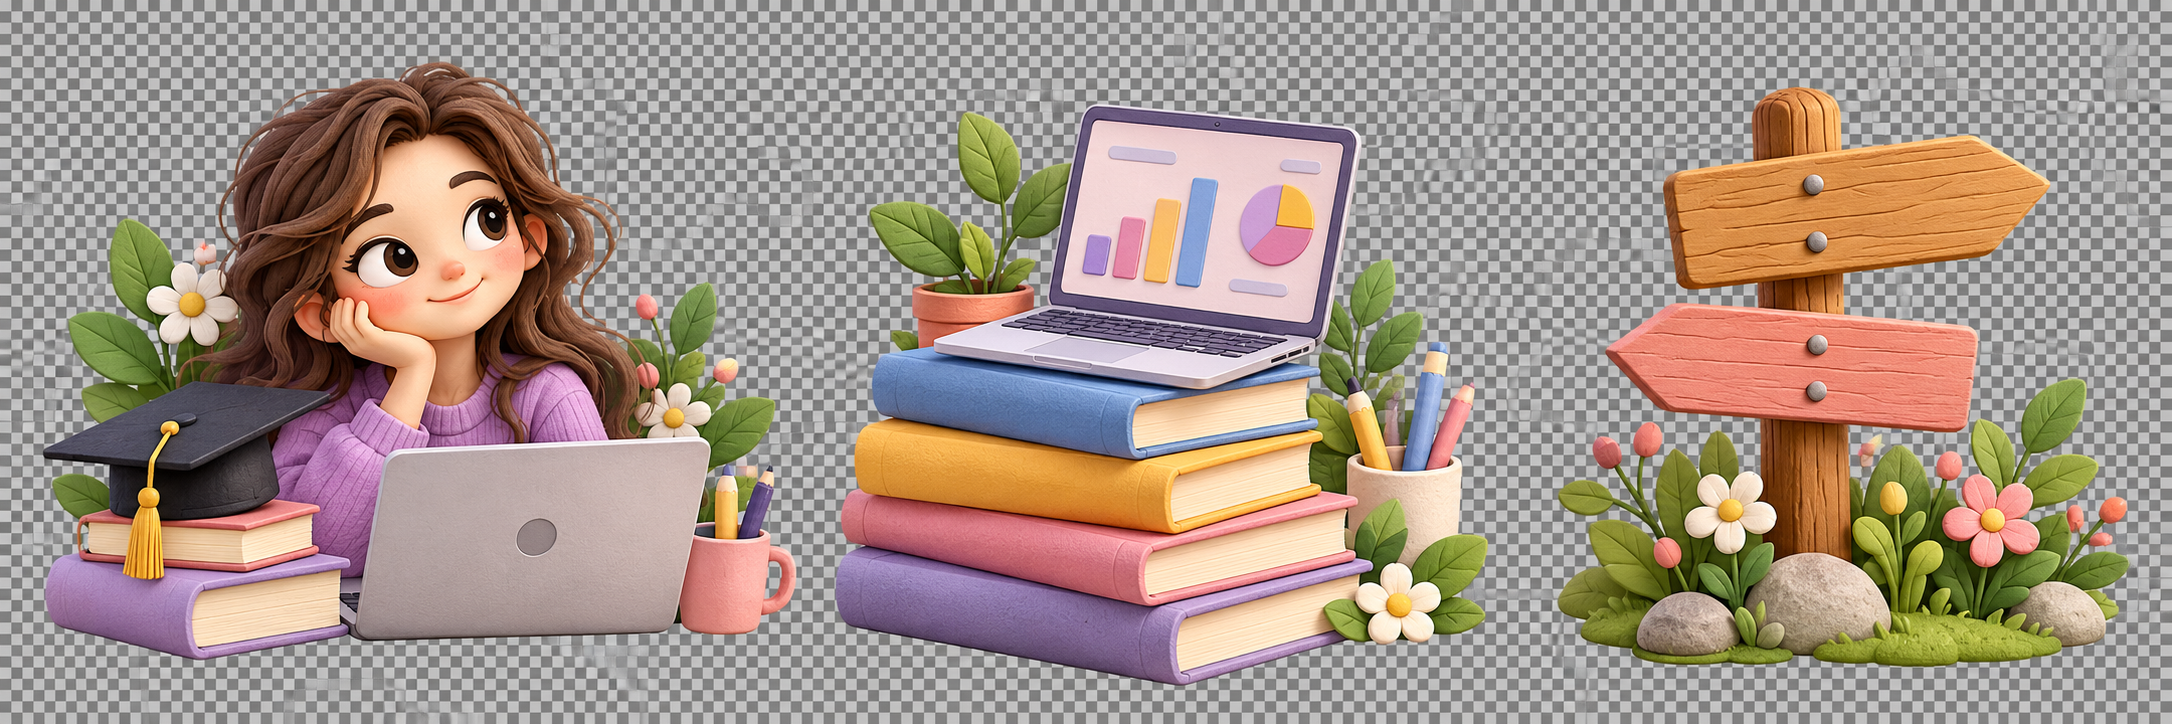
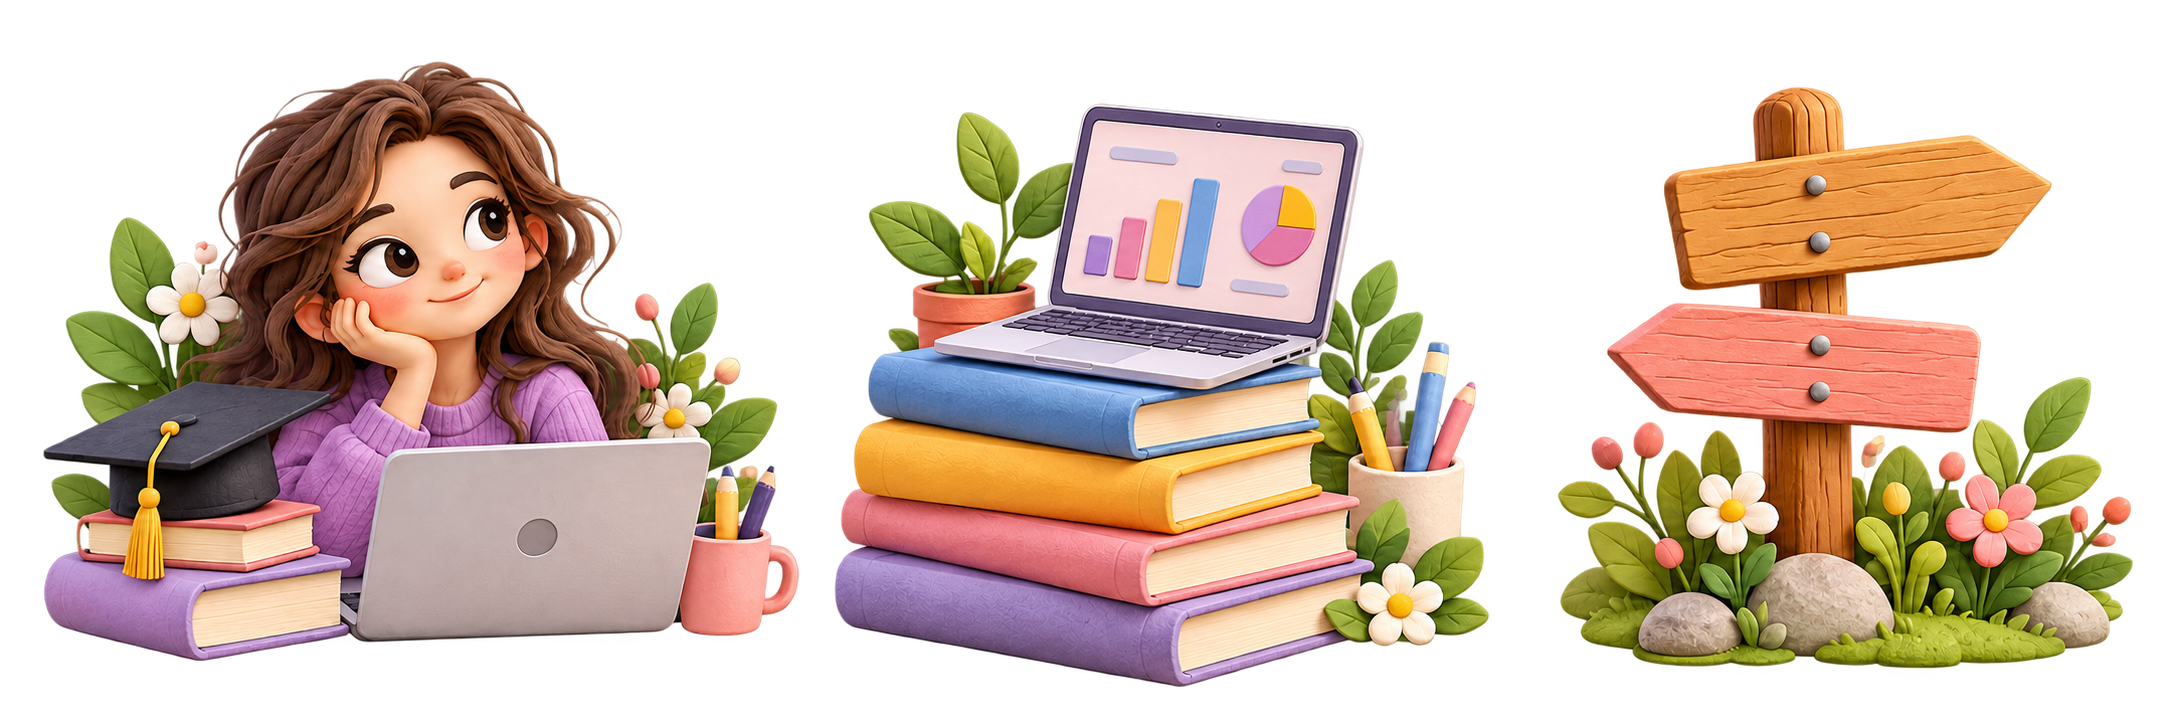
fix 3 block and time

diff --git a/src/App.css b/src/App.css
@@ -16,7 +16,7 @@
 .language-switch { position: absolute; z-index: 1; right: 34px; top: 65px; display: flex; align-items: center; gap: 10px; font-size: 12px; }
 .language-switch b { height: 14px; width: 1px; background: currentColor; opacity: .5; }
 .hero-copy { position: absolute; z-index: 1; left: 10.2%; top: 16%; }
-.handwriting { margin: 0 0 -8px -8px; font: italic 58px/1 'Noto Serif SC', Georgia, serif; transform: rotate(-9deg); }
+.handwriting { margin: 0 0 20px -8px; font: italic 58px/1 'Noto Serif SC', Georgia, serif; transform: rotate(-9deg); }
 .hero-copy h1 { margin: 0; font: 500 clamp(50px, 6vw, 82px)/.98 Georgia, 'Times New Roman', serif; letter-spacing: -.045em; }
 .hero-copy h1 em { font-style: normal; padding-left: 55px; }
 .hero-chinese { margin: 34px 0 10px 28px; font: 500 23px/1.5 'Noto Serif SC', serif; letter-spacing: .18em; color: #fff; text-shadow: 0 1px 8px rgba(32,40,72,.5); }
@@ -29,13 +29,11 @@
 .story-card:hover, .story-card.is-active { transform: translateY(-4px); box-shadow: 0 18px 42px rgba(64,65,120,.15); }
 .story-number { display: block; color: #8384ae; font: 18px Georgia, serif; }
 .story-title { display: block; margin-top: 4px; font: 32px Georgia, serif; color: #11142b; }
-.story-art { position: absolute; width: 47%; height: 60%; right: 6%; top: 7%; background-image: var(--story-art); background-repeat: no-repeat; background-size: 300% 100%; }
-.art-student { background-position: left center; }
-.art-books { background-position: center center; }
-.art-signpost { background-position: right center; }
-.story-arrow { display: grid; place-items: center; position: absolute; left: 25px; top: 104px; width: 30px; height: 30px; border-radius: 50%; color: white; background: #a1a1c5; font-size: 17px; }
+.story-art { position: absolute; width: 47%; height: 60%; right: 6%; top: 7%; background-repeat: no-repeat; background-position: center; background-size: contain; }
+.story-arrow { display: grid; place-items: center; position: absolute; right: 18px; bottom: 13px; width: 30px; height: 30px; border-radius: 50%; color: white; background: #a1a1c5; font-size: 17px; }
+.story-arrow { text-decoration: none; }
 .story-chinese { display: block; position: absolute; bottom: 43px; left: 25px; font: 600 16px 'Noto Serif SC', serif; }
-.story-detail { display: block; position: absolute; bottom: 20px; left: 25px; right: 15px; color: #73758f; font-size: 12px; white-space: nowrap; overflow: hidden; text-overflow: ellipsis; }
+.story-detail { display: block; position: absolute; bottom: 20px; left: 25px; right: 58px; color: #73758f; font-size: 12px; white-space: nowrap; overflow: hidden; text-overflow: ellipsis; }
 .story-hint, .story-dots { display: none; }
 .projects-section { padding: 31px 36px 28px; background: #f7f6ff; }
 .section-heading { display: flex; justify-content: space-between; align-items: center; margin-bottom: 19px; }
@@ -65,8 +63,35 @@
 .project-tags span { padding: 4px 7px; border-radius: 7px; background: #f0f0f8; color: #676986; font-size: 9px; white-space: nowrap; }
 .project-open { display: grid; place-items: center; flex: 0 0 27px; width: 27px; height: 27px; border: 1px solid #b8bad4; border-radius: 50%; font-size: 14px; }
 .footer { display: flex; justify-content: space-between; padding: 18px 36px 5px; color: #85859e; font-size: 11px; }
+.story-page { width: min(100% - 48px, 1000px); min-height: 100vh; margin: 0 auto; color: #191a36; }
+.story-page-header { height: 76px; display: flex; align-items: center; justify-content: space-between; border-bottom: 1px solid #e7e6f2; }
+.story-page-brand { font-size: 13px; font-weight: 700; letter-spacing: .14em; }
+.story-page-brand span { color: #8385c2; }
+.story-page-back { color: #656681; font-size: 13px; }
+.story-page-hero { display: flex; align-items: center; justify-content: space-between; min-height: 320px; padding: 40px 7%; border-radius: 0 0 22px 22px; background: linear-gradient(135deg, #f4f1ff, #fbf8ff 65%, #f2f4ff); }
+.story-page-number { color: #8586b2; font: 14px Georgia, serif; letter-spacing: .1em; }
+.story-page-hero h1 { margin: 12px 0; font: 500 clamp(34px, 5vw, 56px)/1.2 'Noto Serif SC', Georgia, serif; }
+.story-page-summary { max-width: 490px; color: #666780; font: 16px/1.9 'Noto Serif SC', serif; }
+.story-page-hero img { width: 34%; max-height: 250px; object-fit: contain; }
+.story-page-sections { display: grid; gap: 14px; padding: 34px 7%; }
+.story-page-section { display: grid; grid-template-columns: 48px 1fr; gap: 18px; padding: 24px 26px; border: 1px solid #e8e7f1; border-radius: 14px; background: #fff; }
+.story-page-section > span { color: #8586b2; font: 16px Georgia, serif; }
+.story-page-section h2 { margin: 0 0 9px; font: 600 20px 'Noto Serif SC', serif; }
+.story-page-section p { margin: 0; color: #666780; font: 14px/1.9 'Noto Serif SC', serif; white-space: pre-line; }
+.story-page-footer { display: flex; justify-content: space-between; padding: 18px 7%; color: #85859e; font-size: 11px; }
 
 @media (max-width: 760px) {
+  .story-page { width: min(100% - 32px, 560px); }
+  .story-page-header { height: 60px; }
+  .story-page-hero { min-height: 0; padding: 26px 20px; border-radius: 0 0 16px 16px; }
+  .story-page-hero h1 { font-size: 30px; }
+  .story-page-summary { font-size: 13px; }
+  .story-page-hero img { width: 32%; max-height: 130px; }
+  .story-page-sections { gap: 10px; padding: 20px 0; }
+  .story-page-section { grid-template-columns: 30px 1fr; gap: 10px; padding: 18px 15px; }
+  .story-page-section h2 { font-size: 17px; }
+  .story-page-section p { font-size: 12px; }
+  .story-page-footer { padding: 14px 0; }
   .page-shell { width: 100%; padding: 0 0 16px; }
   .topbar { height: 58px; padding: 0 20px; }
   .wordmark { font-size: 11px; }
@@ -89,20 +114,20 @@
   .hero-words { margin: 0; font-size: 11px; letter-spacing: .08em; }
   .paper-plane { top: 34%; left: auto; right: 13%; font-size: 41px; }
   .hero-doodle { right: 9%; bottom: 17%; font-size: 38px; }
-  .story-grid { display: flex; align-items: end; gap: 0; height: 236px; margin: -102px -1px 0; perspective: 900px; }
-  .story-card { flex: 0 0 35%; height: 205px; padding: 17px 12px 14px; border-radius: 14px; transform-origin: center bottom; }
+  .story-grid { display: flex; align-items: end; gap: 0; height: 236px; margin: -140px -1px 0; perspective: 900px; }
+  .story-card { flex: 0 0 35%; height: 215px; padding: 17px 12px 14px; border-radius: 14px; transform-origin: center bottom; }
   .story-card:nth-child(1) { z-index: 1; transform: perspective(700px) rotateY(18deg) scale(.93); margin-right: -7%; }
-  .story-card:nth-child(2) { z-index: 2; height: 226px; flex-basis: 39%; }
+  .story-card:nth-child(2) { z-index: 2; height: 236px; flex-basis: 39%; }
   .story-card:nth-child(3) { z-index: 1; transform: perspective(700px) rotateY(-18deg) scale(.93); margin-left: -7%; }
-  .story-card:nth-child(1).is-active { transform: perspective(700px) rotateY(12deg) scale(.98) translateY(-6px); }
-  .story-card:nth-child(2).is-active { transform: translateY(-6px); }
-  .story-card:nth-child(3).is-active { transform: perspective(700px) rotateY(-12deg) scale(.98) translateY(-6px); }
+  .story-card:nth-child(1).is-active { z-index: 4; transform: perspective(700px) rotateY(12deg) scale(.98) translateY(-6px); }
+  .story-card:nth-child(2).is-active { z-index: 4; transform: translateY(-6px); }
+  .story-card:nth-child(3).is-active { z-index: 4; transform: perspective(700px) rotateY(-12deg) scale(.98) translateY(-6px); }
   .story-number { font-size: 13px; }
   .story-title { margin-top: 3px; font-size: clamp(20px, 6vw, 27px); }
-  .story-art { width: 90%; height: 43%; right: 5%; top: 38%; }
+  .story-art { width: 86%; height: 40%; right: 5%;top: 25% }
   .story-arrow { display: none; }
-  .story-chinese { left: 10px; right: 7px; bottom: 29px; font-size: 10px; white-space: nowrap; }
-  .story-detail { left: 10px; bottom: 11px; font-size: 8px; }
+  .story-chinese { left: 10px; right: 7px;  font-size: 10px; white-space: nowrap; }
+  .story-detail { left: 10px; bottom: 31px; font-size: 8px; }
   .story-hint { display: flex; justify-content: center; gap: 8px; margin-top: 16px; color: #777991; font-size: 10px; }
   .story-dots { display: flex; justify-content: center; gap: 6px; margin-top: 12px; }
   .story-dots button { width: 6px; height: 6px; padding: 0; border: 0; border-radius: 50%; background: #d5d4e5; }

diff --git a/src/App.jsx b/src/App.jsx
@@ -1,13 +1,17 @@
-import { useState } from 'react'
+import { useEffect, useState } from 'react'
 import './App.css'
 import desktopBackground from './assets/bg-pc.jpg'
 import mobileBackground from './assets/bg-mb.jpg'
-import illustrations from './assets/portfolio-illustrations.png'
+import studentIllustration from './assets/story-student.png'
+import booksIllustration from './assets/story-books.png'
+import signpostIllustration from './assets/story-signpost.png'
+
+const storyIllustrations = [studentIllustration, booksIllustration, signpostIllustration]
 
 const stories = [
-  { number: '01', title: 'Who', chinese: '我是谁？', detail: '学生 / 教育背景 / 实习经历', art: 'student' },
-  { number: '02', title: 'What', chinese: '我在做什么？', detail: '研究兴趣 / 项目 / 技能', art: 'books' },
-  { number: '03', title: 'Why', chinese: '为什么做这个网站？', detail: '初衷 / 价值观 / 未来计划', art: 'signpost' },
+  { number: '01', title: 'Who', chinese: '我是谁？', detail: '学生 / 教育背景 / 实习经历', art: 'student', slug: 'who', summary: '一名持续学习、探索，并通过实践积累经验的学生。', sections: [{ title: '教育背景', body: '记录所学专业、课程经历与阶段性收获。' }, { title: '实践经历', body: '整理实习、校园参与和其他值得回顾的经历。' }] },
+  { number: '02', title: 'What', chinese: '我在做什么？', detail: '研究兴趣 / 项目 / 技能', art: 'books', slug: 'what', summary: '把感兴趣的问题转化为研究、项目与持续练习。', sections: [{ title: '项目实践', body: 'Campus Annual Bill：校园年度账单系统。\nLLM-driven Rumor Detection：大语言模型驱动的谣言检测项目。' }, { title: '关注方向', body: '关注数据可视化、自然语言处理与多模态技术。' }] },
+  { number: '03', title: 'Why', chinese: '为什么做这个网站？', detail: '初衷 / 价值观 / 未来计划', art: 'signpost', slug: 'why', summary: '把学习、项目和思考整理成一处可以持续更新的个人空间。', sections: [{ title: '做这个网站的初衷', body: '记录正在做的事，也让每一段探索都能被回看。' }, { title: '接下来', body: '继续完善项目记录，分享新的学习成果与实践体验。' }] },
 ]
 
 const projects = [
@@ -21,12 +25,55 @@ const projects = [
   },
 ]
 
+function StoryPage({ story, illustration }) {
+  return (
+    <main className="story-page">
+      <header className="story-page-header">
+        <a className="story-page-brand" href="/">MY WORLD <span>✦</span></a>
+        <a className="story-page-back" href="/">← 返回首页</a>
+      </header>
+      <section className="story-page-hero">
+        <div>
+          <p className="story-page-number">{story.number} / MY STORY</p>
+          <h1>{story.chinese}</h1>
+          <p className="story-page-summary">{story.summary}</p>
+        </div>
+        <img src={illustration} alt="" />
+      </section>
+      <section className="story-page-sections" aria-label={story.chinese}>
+        {story.sections.map((section, index) => (
+          <article className="story-page-section" key={section.title}>
+            <span>0{index + 1}</span>
+            <div><h2>{section.title}</h2><p>{section.body}</p></div>
+          </article>
+        ))}
+      </section>
+      <footer className="story-page-footer"><a href="/">MY WORLD</a><span>Keep exploring, learning and growing.</span></footer>
+    </main>
+  )
+}
+
 function App() {
   const [activeStory, setActiveStory] = useState(1)
   const [menuOpen, setMenuOpen] = useState(false)
+  const [now, setNow] = useState(() => new Date())
+  const currentStory = stories.find(story => window.location.pathname === `/${story.slug}`)
+
+  useEffect(() => {
+    const timer = window.setInterval(() => setNow(new Date()), 15_000)
+    return () => window.clearInterval(timer)
+  }, [])
+
+  const dateText = `${now.getFullYear()} / ${now.getMonth() + 1} / ${now.getDate()}`
+  const weekdayText = new Intl.DateTimeFormat('en-US', { weekday: 'short' }).format(now)
+  const timeText = new Intl.DateTimeFormat('en-GB', { hour: '2-digit', minute: '2-digit', hourCycle: 'h23' }).format(now)
+
+  if (currentStory) {
+    return <StoryPage story={currentStory} illustration={storyIllustrations[stories.indexOf(currentStory)]} />
+  }
 
   return (
-    <main className="page-shell" style={{ '--desktop-bg': `url(${desktopBackground})`, '--mobile-bg': `url(${mobileBackground})`, '--story-art': `url(${illustrations})` }}>
+    <main className="page-shell" style={{ '--desktop-bg': `url(${desktopBackground})`, '--mobile-bg': `url(${mobileBackground})` }}>
       <header className="topbar">
         <a className="wordmark" href="#home" aria-label="回到首页">MY WORLD<span>✦</span></a>
         <nav className={menuOpen ? 'main-nav is-open' : 'main-nav'} aria-label="主导航">
@@ -39,7 +86,7 @@ function App() {
 
       <section className="hero" id="home" aria-labelledby="hero-title">
         <div className="hero-scene">
-          <div className="scene-meta"><span><span className="meta-icon">▦</span> 2026 / 10 / 27 <i>Mon</i> <i>21:36</i></span><span>◉ &nbsp;12,486</span></div>
+          <div className="scene-meta"><span><span className="meta-icon">▦</span> {dateText} <i>{weekdayText}</i> <i>{timeText}</i></span><span>◉ &nbsp;12,486</span></div>
           <div className="language-switch"><span>中</span><b />EN</div>
           <div className="hero-copy">
             <p className="handwriting">Hi,</p>
@@ -53,14 +100,14 @@ function App() {
 
         <div className="story-grid" id="about">
           {stories.map((story, index) => (
-            <button className={`story-card ${activeStory === index ? 'is-active' : ''}`} key={story.number} onClick={() => setActiveStory(index)} aria-pressed={activeStory === index}>
+            <article className={`story-card ${activeStory === index ? 'is-active' : ''}`} key={story.number} onClick={() => setActiveStory(index)} onDoubleClick={() => { if (window.matchMedia('(max-width: 760px)').matches) window.location.assign(`/${story.slug}`) }}>
               <span className="story-number">{story.number}</span>
               <span className="story-title">{story.title}</span>
-              <span className={`story-art art-${story.art}`} aria-hidden="true" />
-              <span className="story-arrow" aria-hidden="true">↗</span>
+              <span className={`story-art art-${story.art}`} style={{ backgroundImage: `url(${storyIllustrations[index]})` }} aria-hidden="true" />
+              <a className="story-arrow" href={`/${story.slug}`} aria-label={`了解更多：${story.chinese}`}>↗</a>
               <span className="story-chinese">{story.chinese}</span>
               <span className="story-detail">{story.detail} …</span>
-            </button>
+            </article>
           ))}
         </div>
         <div className="story-hint"><span>←</span> 左右滑动 / 点击卡片 <span>→</span></div>
